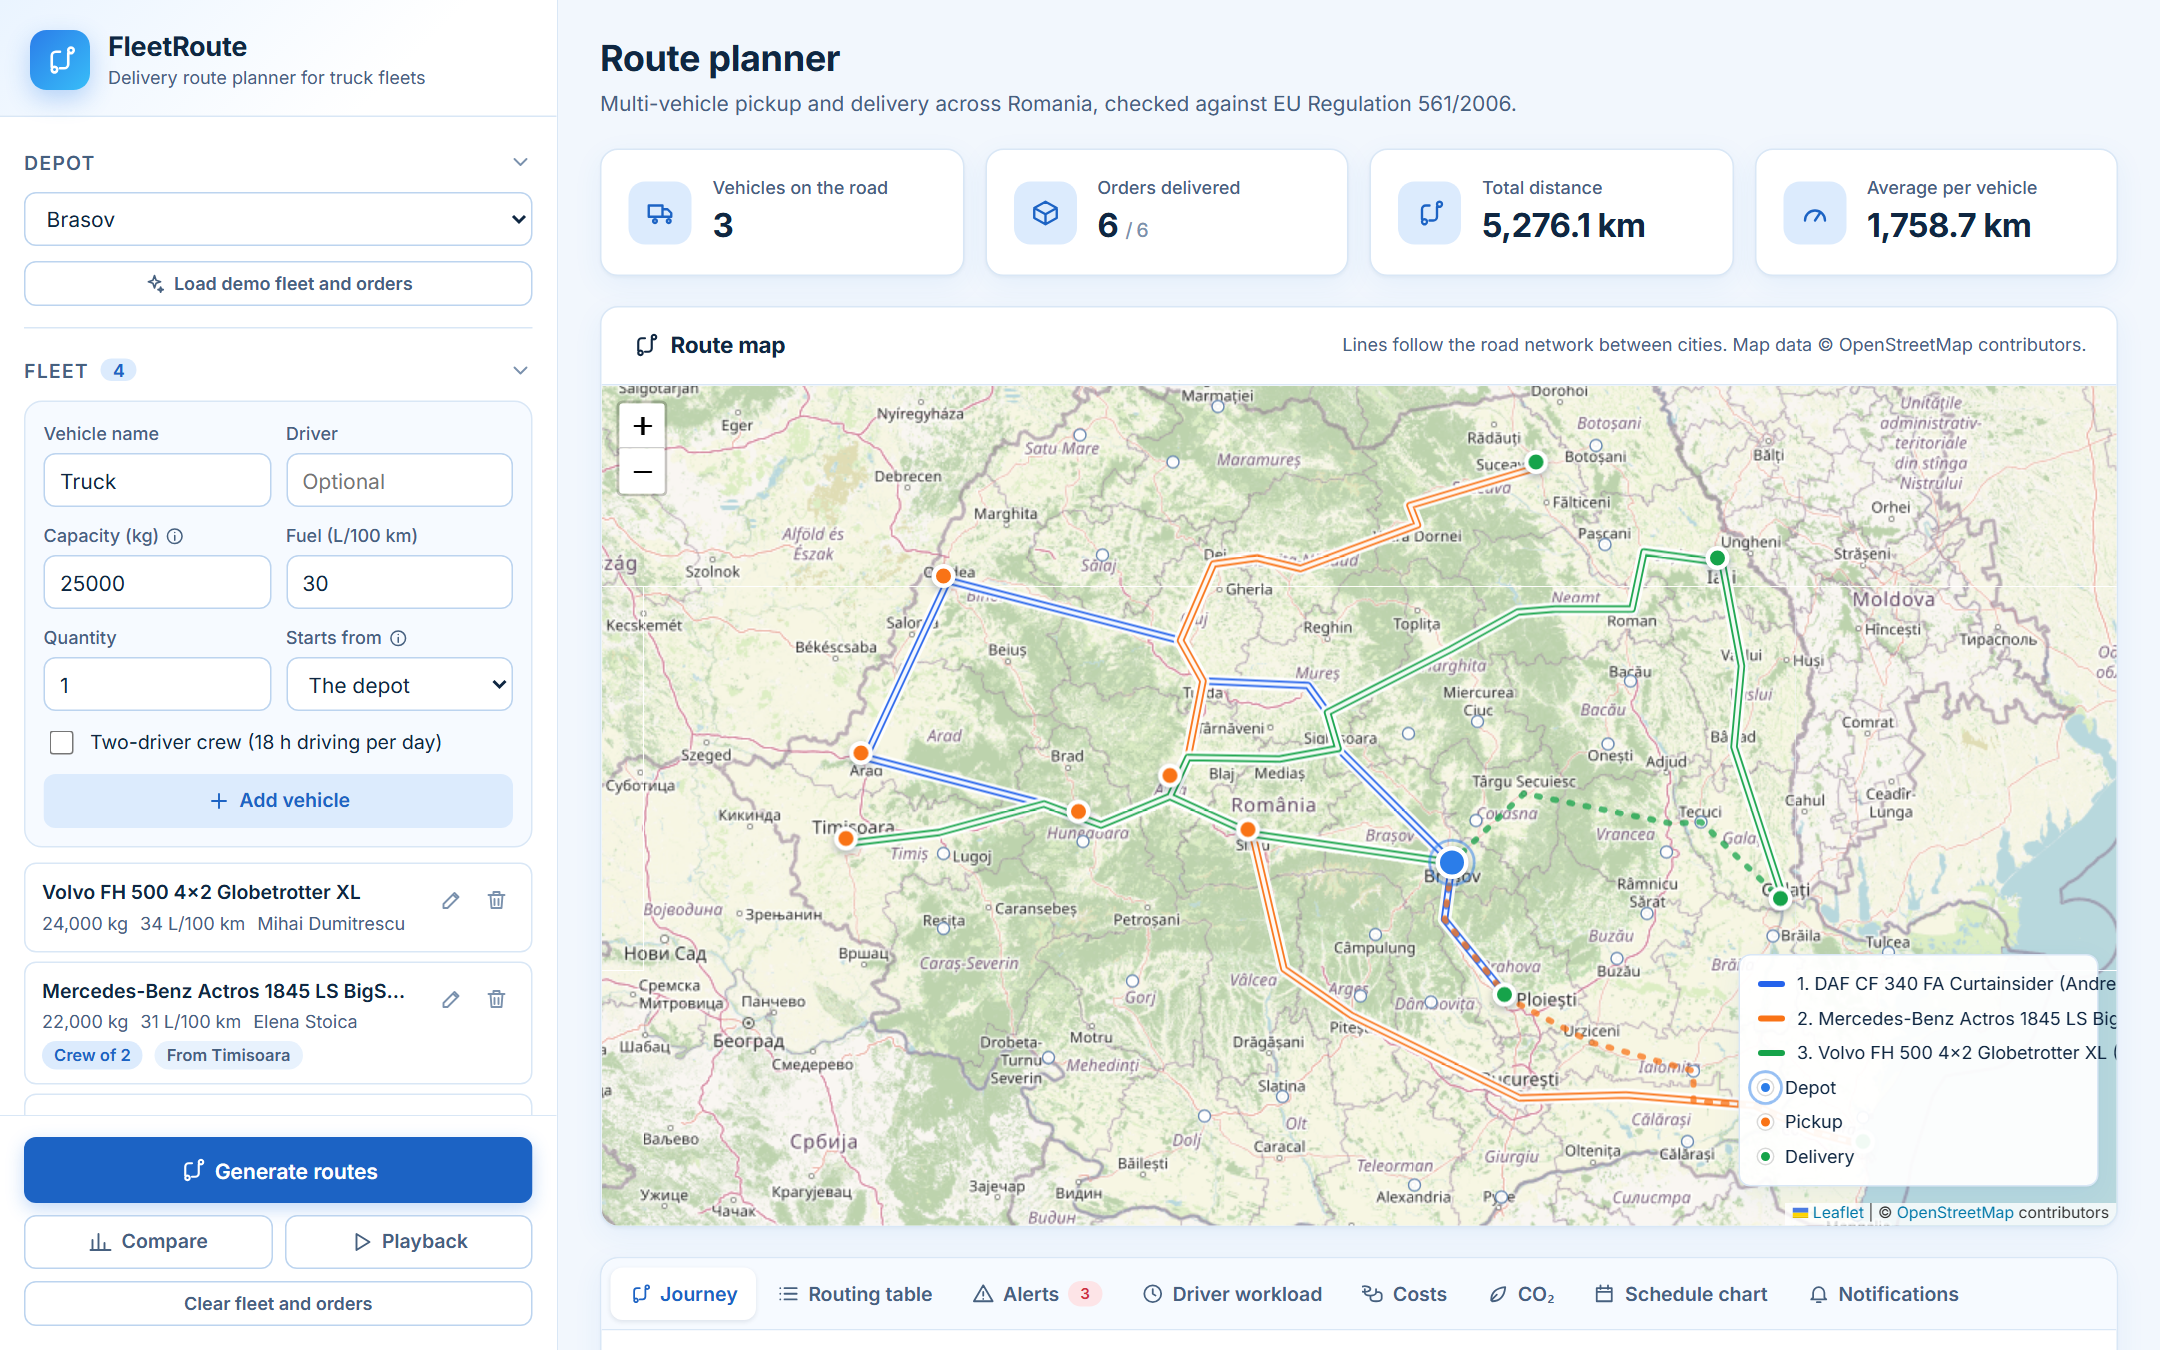
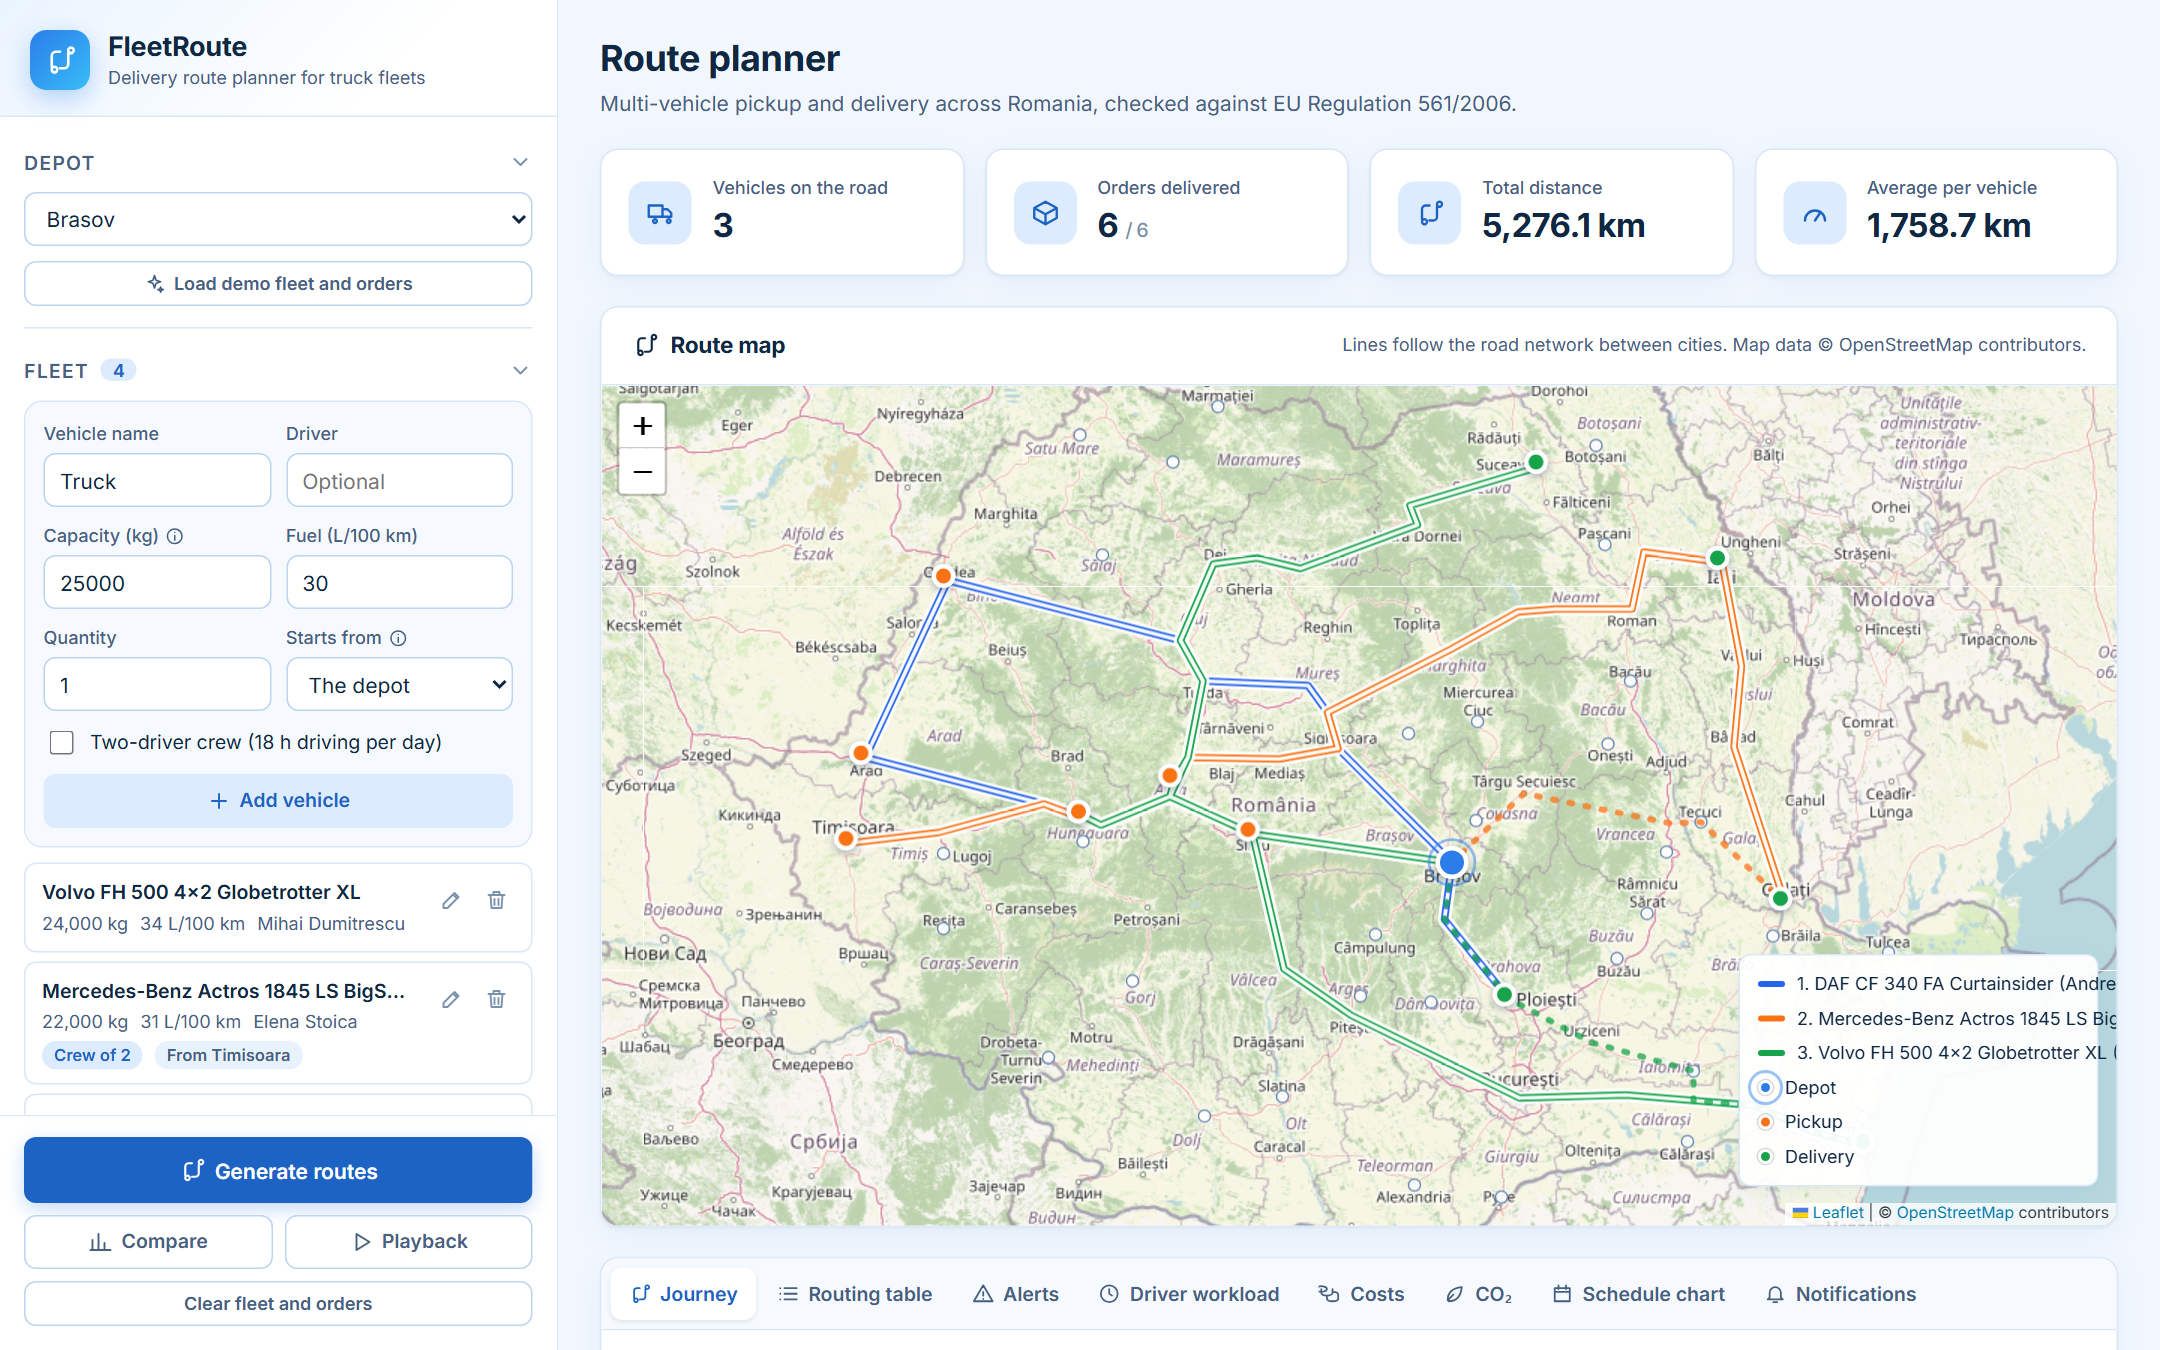
Update README and screenshots

diff --git a/README.md b/README.md
@@ -1,8 +1,12 @@
 # FleetRoute
 
+[![CI](https://github.com/CataBulu/FleetRoute/actions/workflows/ci.yml/badge.svg)](https://github.com/CataBulu/FleetRoute/actions/workflows/ci.yml)
+[![License: MIT](https://img.shields.io/badge/license-MIT-blue.svg)](LICENSE)
+
 **A delivery route planner for truck fleets.** You enter a depot, your trucks and a list of
 pickup-and-delivery orders. FleetRoute decides which truck carries which load, in what
-order, and when. It keeps to truck capacity, delivery deadlines and EU driving-time rules.
+order, and when. Every plan respects truck capacity, delivery deadlines and the EU rules on
+driving and rest time.
 
 The optimisation uses Google OR-Tools behind a Python / Starlette API. The interface is
 React + TypeScript with an interactive Leaflet map. The road network of 59 Romanian cities
@@ -16,18 +20,20 @@ from OpenStreetMap.
 - **Vehicle routing with real constraints.** Pickup-and-delivery pairs on the same truck,
   capacity per vehicle, delivery deadlines, earliest pickup times and priority orders.
   All of it is modelled with the OR-Tools routing solver, with a greedy fallback.
+- **Plans that are legal to drive.** Every candidate plan is replayed against EU Regulation
+  561/2006: 45-minute breaks, regular and reduced daily rests, weekly rests, the 56 h /
+  90 h limits, and two-driver crews. When rests would make a delivery late, the optimiser
+  re-plans with rest-aware deadlines. So deadlines hold on the legal schedule, not just
+  on paper.
 - **Three planning goals.** Shortest distance, shortest driving time, or a weighted balance
   of both, plus a side-by-side comparison of four first-solution strategies.
-- **Driver-hours compliance.** Every route is replayed against EU Regulation 561/2006:
-  45-minute breaks, reduced and regular daily rests, weekly rests, the 56 h / 90 h
-  weekly limits, and two-driver crews. Road segments are also checked against Romanian
-  truck speed limits.
 - **Load splitting.** Orders heavier than the biggest truck are split across several
   vehicles.
 - **Route playback.** Trucks move across the map on their planned schedule, stopping for
   loading and unloading.
 - **Operational dashboards.** Journey timeline, Gantt-style schedule, driver workload,
-  cost breakdown, CO₂ footprint, alerts and customer notifications.
+  cost breakdown, CO₂ footprint, alerts, Romanian truck speed-limit checks and customer
+  notifications.
 - **Exports.** Excel and PDF reports, plus JSON import and export of fleets, orders and
   whole scenarios.
 
@@ -50,10 +56,11 @@ from OpenStreetMap.
 | Layer | Technologies |
 |-------|--------------|
 | Frontend | React 19, TypeScript, Vite, Leaflet / react-leaflet, hand-written SVG charts |
-| Backend | Python 3.11+, Starlette, Uvicorn |
+| Backend | Python 3.11–3.13, Starlette, Uvicorn |
 | Optimisation | Google OR-Tools (constraint solver), NetworkX (Dijkstra shortest paths) |
 | Reports | xlsxwriter, fpdf2 |
-| Quality | pytest (47 tests), TypeScript strict type-checking, oxlint |
+| Quality | pytest (53 tests), TypeScript strict mode, oxlint, GitHub Actions CI |
+| Delivery | Multi-stage Docker image, Render blueprint |
 
 ## Architecture
 
@@ -62,8 +69,8 @@ flowchart LR
     UI["React + TypeScript<br/>(Vite)"] -- "JSON over /api" --> API["Starlette API<br/>validation"]
     API --> PLAN["planning.py<br/>split loads, expand fleet"]
     PLAN --> SOLVER["solver.py<br/>OR-Tools model"]
+    SOLVER <-->|"re-plan with<br/>rest-aware deadlines"| RULES["compliance.py<br/>EU 561/2006 replay"]
     SOLVER --> GRAPH["graph.py<br/>road network + Dijkstra"]
-    API --> RULES["compliance.py<br/>EU 561/2006 replay"]
     API --> ANALYTICS["analytics.py<br/>KPIs, timeline, CO₂"]
     API --> EXPORTS["exports.py<br/>Excel / PDF"]
     UI --> MAP["Leaflet map<br/>OpenStreetMap tiles"]
@@ -73,16 +80,18 @@ flowchart LR
   dimension with loading time and waiting allowed. Deadlines and earliest-pickup windows
   are time-window constraints. Orders sit in drop penalties, weighted up for priority
   orders.
-- The **compliance engine** is independent of the solver. It walks each planned route
-  segment by segment and inserts breaks and rests where the regulation requires them. It
-  then reports slack against each deadline, late deliveries and limit violations.
+- The **compliance engine** walks each route segment by segment and inserts breaks and
+  rests where the regulation requires them. The solver uses it inside a refinement loop.
+  After each solve, every delivery's deadline in the model is scaled by how much rests
+  stretched its route, and the best of up to six rounds is kept. An order that cannot be
+  delivered legally in time is reported as undeliverable, not planned late.
 - Solver calls run in a worker thread (`run_in_threadpool`), so the API stays responsive
   during longer optimisations.
 - In production, Starlette serves the built frontend and the API from a single port.
 
 ## Getting started
 
-Requirements: **Python 3.11+** and **Node.js 20.19+**.
+Requirements: **Python 3.11–3.13** and **Node.js 20.19+**.
 
 ### Windows
 
@@ -98,6 +107,18 @@ Both scripts create the Python environment and install the packages on first run
 ```bash
 ./dev.sh
 ```
+
+### Docker
+
+```bash
+docker build -t fleetroute .
+```
+
+```bash
+docker run -p 8000:8000 fleetroute
+```
+
+Then open http://localhost:8000.
 
 ### Manual setup
 
@@ -127,6 +148,16 @@ Open http://localhost:5173 and click **Try the demo data**, then **Generate rout
 
 On Windows, use `.venv\Scripts\` instead of `.venv/bin/`.
 
+## Deploying
+
+The repository includes a `render.yaml` blueprint. In the [Render](https://render.com)
+dashboard, choose **New → Blueprint**, pick this repository, and Render builds the Docker
+image and serves the app with a health check on `/api/health`. The blueprint asks for the
+free instance type; change `plan` in `render.yaml` if your account uses another.
+
+Any other host that runs Docker images works the same way. The container listens on the
+port given in the `PORT` environment variable (default 8000).
+
 ## Tests
 
 ```bash
@@ -141,12 +172,20 @@ npm --prefix frontend run typecheck
 npm --prefix frontend run lint
 ```
 
-The backend suite has 47 tests:
+The backend suite has 53 tests:
 - solver behaviour on a small fixed network: deadlines, waiting for pickup windows,
   priorities, open routing, fallback
-- the EU rules engine
-- input normalisation and load splitting
-- the HTTP API end to end on the real road network
+- EU-rule boundaries on the real road network, e.g. a delivery a single driver cannot
+  make but a two-driver crew can
+- the rules engine
+- input handling and load splitting
+- the HTTP API
+
+GitHub Actions runs everything on every push:
+- the backend suite on Python 3.11, 3.12 and 3.13
+- the frontend type-check, lint and build
+- a Docker build that starts the container and checks that the demo plan is fully
+  on time
 
 ## API
 
@@ -166,7 +205,7 @@ The backend suite has 47 tests:
   "depot": "Brasov",
   "vehicles": [{ "name": "Truck 1", "driver": "Ana", "capacity_kg": 24000, "fuel_l100km": 30,
                  "crew": false, "count": 1, "home_city": null }],
-  "orders": [{ "pickup": "Arad", "delivery": "Iasi", "demand_kg": 8000, "deadline_h": 36,
+  "orders": [{ "pickup": "Arad", "delivery": "Iasi", "demand_kg": 8000, "deadline_h": 48,
                "earliest_pickup_h": 0, "priority": false }],
   "mode": "economic",
   "return_to_depot": true,
@@ -184,7 +223,7 @@ Times are hours after dispatch (08:00 on the planning day). Invalid input return
 backend/
   fleetroute/
     app.py          Starlette routes and input validation
-    solver.py       OR-Tools model, greedy fallback, strategy comparison
+    solver.py       OR-Tools model, rest-aware refinement, strategy comparison
     planning.py     Input normalisation, load splitting, fleet expansion
     compliance.py   EU 561/2006 and Romanian HGV rules
     analytics.py    KPIs, workload, CO2, alerts, timeline
@@ -198,7 +237,10 @@ frontend/
     components/     Sidebar forms, map and playback, result tabs
     api.ts          Typed API client
     types.ts        Types matching the API responses
+.github/workflows/  CI pipeline
 docs/screenshots/
+Dockerfile          Multi-stage build: Vite bundle + Python API
+render.yaml         Render deployment blueprint
 dev.bat, dev.sh     Start backend and frontend for development
 run.bat             Build once and serve on one port
 ```
@@ -209,10 +251,8 @@ run.bat             Build once and serve on one port
   distance). Map lines connect the cities along that path rather than the exact road
   geometry.
 - Every pickup and delivery takes 2 hours of loading or unloading.
-- The optimiser plans against delivery deadlines using pure driving time. Mandatory
-  breaks and rests are added afterwards by the compliance check. That is why the routing
-  table can flag a delivery as late that the optimiser accepted: it shows the real
-  impact of driving-time rules on a plan.
+- Rest-aware planning is a heuristic. When the fleet is too tight to do everything legally
+  on time, the routing table still flags any delivery that ends up late.
 - Weekend and holiday driving bans for trucks over 7.5 t are not modelled.
 
 ## License
